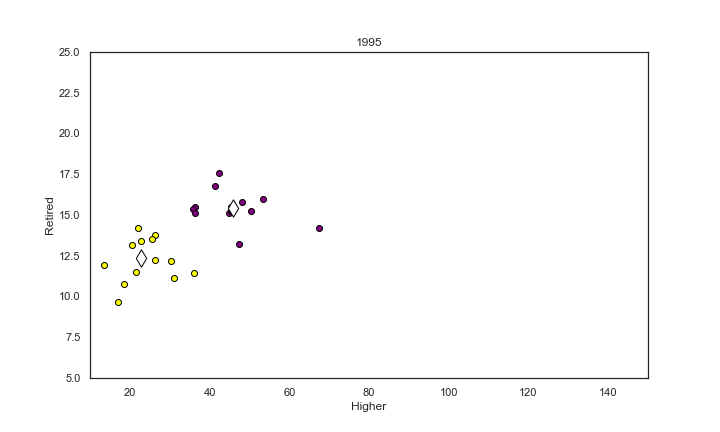
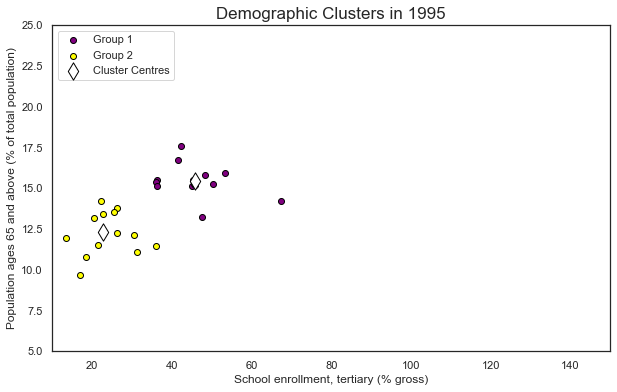
Final changes

diff --git a/ClusteringPoster.py b/ClusteringPoster.py
@@ -7,13 +7,10 @@ Created on Tue May  2 13:54:31 2023
 
 import pandas as pd
 import matplotlib.pyplot as plt
-import matplotlib.pylab as plt
 import matplotlib.patches as mpatches
 import sklearn.cluster as cluster
-import sklearn.metrics as skmet
 import scipy.optimize as opt
 import cluster_tools as ct
-import errors as err
 import seaborn as sns
 import numpy as np
 import geopandas as gpd
@@ -56,7 +53,7 @@ def getDfs(filename):
     
     return temp_df, temp_df_tr
 
-def createClusters(label1, label2, year):
+def createClusters(label1, label2, year, xlabel, ylabel):
     """
     Parameters
     ----------
@@ -65,6 +62,10 @@ def createClusters(label1, label2, year):
     label2 : the second label for generating clusters
     
     year : the year to generate clusters for
+    
+    xlabel : the label for the x axis
+    
+    ylabel : the label for the y axis
         
     Returns
     -------
@@ -139,13 +140,15 @@ def createClusters(label1, label2, year):
     ax.scatter(temp[label1], 
                temp[label2],
                c = 'purple',
-               edgecolors = 'Black')
+               edgecolors = 'Black',
+               label = 'Group 1')
     
     temp = df[df['Groups'] == 1]
     ax.scatter(temp[label1], 
                temp[label2],
                c = 'yellow',
-               edgecolors = 'black')
+               edgecolors = 'black',
+               label = 'Group 2')
     
     back = ct.backscale(kmeans.cluster_centers_, 
                         cluster_data[1], 
@@ -157,15 +160,17 @@ def createClusters(label1, label2, year):
                c='white', 
                marker = 'd',
                edgecolor = 'black',
-               s = 150)
+               s = 150,
+               label = 'Cluster Centres')
     
     plt.ylim(top = 25, bottom = 5)
     plt.xlim(left = 10, right = 150)
-    plt.xlabel(label1)
-    plt.ylabel(label2)
-    plt.title(year)
+    plt.xlabel(xlabel)
+    plt.ylabel(ylabel)
+    plt.title('Demographic Clusters in ' + year, fontsize = 17)
+    plt.legend(loc = "upper left")
     fname = 'scatter_' + year + '.png'
-    plt.savefig(fname)
+    plt.savefig(fname, bbox_inches='tight')
     
     #Generates the Map
     
@@ -186,9 +191,7 @@ def createClusters(label1, label2, year):
     temp.plot(ax = axel, 
               color = 'Purple', 
               edgecolor='black', )
-    
-    print([i for i in df[df['Groups'] == 0].index])
-    print([i for i in df[df['Groups'] == 1].index])
+
 
     Group2_Codes = [WB2EU[i] for i in df[df['Groups'] == 1].index]
     temp = map_df.loc[Group2_Codes]
@@ -209,46 +212,10 @@ def createClusters(label1, label2, year):
     plt.ylim(bottom = 1000000, top = 5500000)
     plt.xticks(color='w')
     plt.yticks(color='w')
-    plt.title(year)
+    axel.ticklabel_format(style='plain')
     fname = 'map_' + year + '.png'
-    plt.savefig(fname)
-    
-#Reading in the data
-CO2_df, CO2_df_tr = getDfs('World_Bank_Data/CO2.csv')
-GDP_df, GDP_df_tr = getDfs('World_Bank_Data/GDP.csv')
-MIG_df, MIG_df_tr = getDfs('World_Bank_Data/Migration.csv')
-RET_df, RET_df_tr = getDfs('World_Bank_Data/Retired.csv')
-HIG_df, HIG_df_tr = getDfs('World_Bank_Data/Higher.csv')
-URB_df, URB_df_tr = getDfs('World_Bank_Data/Urban_pop.csv')
-
-#Creating dataframe to look at information related to EU memeber states 
-#for the metrics of interest
-
-createClusters('Higher', 'Retired', '1995')
-createClusters('Higher', 'Retired', '2018')
-
-#%%
-
-fig, ax = plt.subplots()
-
-target_df = URB_df_tr.drop('Unnamed: 66')
-
-#RET_df_tr = RET_df_tr.drop('Unnamed: 66')
-
-ax.scatter(target_df.index, target_df['European Union'])
-
-plt.xlabel('Year')
-plt.xticks(rotation = 90)
-
-def linear(t, s, k, t0):
-    t = t-t0
-    f = s + k*t
-    return f
-
-def poly(t, c0, c1, c2, c3):
-    f = c0 + c1*t + c2*t**2 + c3*t**3
-    return f
-
+    plt.savefig(fname, bbox_inches='tight')
+        
 def err_ranges(x, func, param, sigma):
     """
     Calculates the upper and lower limits for the function, parameters and
@@ -257,6 +224,9 @@ def err_ranges(x, func, param, sigma):
     Can be used for all number of parameters and sigmas >=1.
     
     This routine can be used in assignment programs.
+    
+    Had issues with passing the a numpy array, I've altered it slightly to
+    accept lists'
     """
 
     import itertools as iter
@@ -278,28 +248,119 @@ def err_ranges(x, func, param, sigma):
         lower = np.minimum(lower, y)
         upper = np.maximum(upper, y)
         
-    return lower, upper, pmix  
+    return lower, upper, pmix
 
-years = [int(i) for i in range(0, len(target_df.index))]
-param, covar = opt.curve_fit(poly, 
-                             years, 
-                             target_df['European Union'])
+def fitEUData(func, initparams, df, title = '', ylabel = ''):
+    '''Generates a graph for the EU data fitted to the function func for the
+    dataframe df from 1990 to 2021. df must be tr. title and ylabel refer to 
+    plt attrributes of the same name. Projects data to 2030'''
+    
+    #Create the dataframe for the fitting portion of the poster
+    target_df = df.loc['1990':].drop('Unnamed: 66')
 
-pop_est = [poly(i, *param) for i in years]
-ax.plot(target_df.index, pop_est, color = 'black')
+    #fit the function
+    #NOTE: I've fitted the function on a list starting from 0 rather then passing
+    # it the year and and doing t = t- t0 in the function, as doing it the later 
+    # way resulted in 12 figure covariances, which did not produce meaningful
+    # confidence intervals.
+    
+    years = [int(i) for i in range(0, len(target_df.index))]
+    param, covar = opt.curve_fit(func, 
+                                 years, 
+                                 target_df['European Union'],
+                                 p0 = initparams)
+    
+    #get uncertainty for 1990 to 2030
+    projection = []
+    
+    for i in range(1990, 2031):
+        projection.append(str(i))
+        
+    years = [int(i) for i in range(0, len(projection))] 
+    
+    pop_est = [func(i, *param) for i in years]
+    sigma = np.sqrt(np.diag(covar))
+    errorLow, errorUp, uplow = err_ranges(years, func, param, sigma)
 
-sigma = np.sqrt(np.diag(covar))
+    #Plotting the data
+    fig, ax = plt.subplots()
 
-for p,s in zip(param, sigma):
-    print(p , s)
+    #plotting the fitted function
+    ax.plot(projection, 
+            pop_est, 
+            color = 'black',
+            label = 'Fitted Function')
 
-errorLow, errorUp, uplow = err_ranges(years, poly, param, sigma)
-plt.fill_between(target_df.index, errorLow, errorUp, alpha = 0.7)
+    #plotting the lower bound of the confidence interval
+    ax.plot(projection, 
+            errorLow, 
+            color = 'black',
+            alpha = 0.3)
 
-# =============================================================================
-# years = [int(i) for i in list(group2_df.index)]
-# param, covar = opt.curve_fit(poly, years, group2_df['mean'])
-# pop_est = [poly(i, *param) for i in years]
-# ax.plot(group2_df.index, pop_est, color = 'black')
-# =============================================================================
+    #plotting the upper bound of the confidence interval
+    ax.plot(projection, 
+            errorUp, 
+            color = 'black',
+            alpha = 0.3)
 
+    #filling the sapce between the points
+    ax.fill_between(projection, 
+                    errorLow, 
+                    errorUp, 
+                    alpha = 0.2, 
+                    color = 'yellow',
+                    label = 'Confidence Interval')
+    
+    #plotting the data points
+    ax.scatter(target_df.index, 
+               target_df['European Union'],
+               edgecolor = 'black',
+               color = 'purple',
+               label = 'Observed Data Points')
+    
+    ax.axvline('2021',
+               color = 'black',
+               linestyle = '--',
+               label = 'Projection',
+               alpha = 0.75)
+
+    #labels
+    plt.xlabel('Year')
+    plt.ylabel(ylabel)
+    plt.title(title, fontsize = 17)
+    plt.xticks(rotation = 90)
+    for n, label in enumerate(ax.xaxis.get_ticklabels()):
+        if n % 5 != 0:
+            label.set_visible(False)
+    plt.legend()
+    
+    #save the figure
+    plt.savefig('FittedData.png')
+
+#define our function to fit
+def poly(t, c0, c1, c2, c3):
+    f = c0 + c1*t + c2*t**2 + c3*t**3
+    return f  
+
+#Reading in the data
+CO2_df, CO2_df_tr = getDfs('World_Bank_Data/CO2.csv')
+GDP_df, GDP_df_tr = getDfs('World_Bank_Data/GDP.csv')
+MIG_df, MIG_df_tr = getDfs('World_Bank_Data/Migration.csv')
+RET_df, RET_df_tr = getDfs('World_Bank_Data/Retired.csv')
+HIG_df, HIG_df_tr = getDfs('World_Bank_Data/Higher.csv')
+URB_df, URB_df_tr = getDfs('World_Bank_Data/Urban_pop.csv')
+
+#Create the clusters for the years of interest
+xlab = 'School enrollment, tertiary (% gross)'
+ylab = 'Population ages 65 and above (% of total population)'
+createClusters('Higher', 'Retired', '1995', xlab, ylab)
+createClusters('Higher', 'Retired', '2018', xlab, ylab)
+
+#fitting the data to our function
+initparams = [14, 0.25, 0.1, 0.1]
+fitEUData(poly,
+          initparams,
+          RET_df_tr,
+          title = 'Percent of People in the EU above 64 Years of Age',
+          ylabel = ylab)
+            
